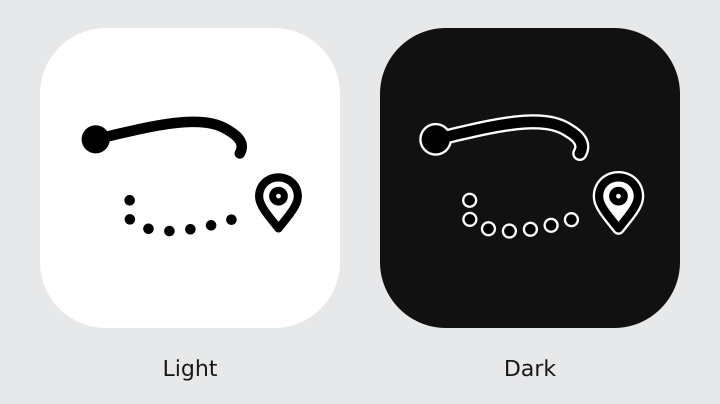
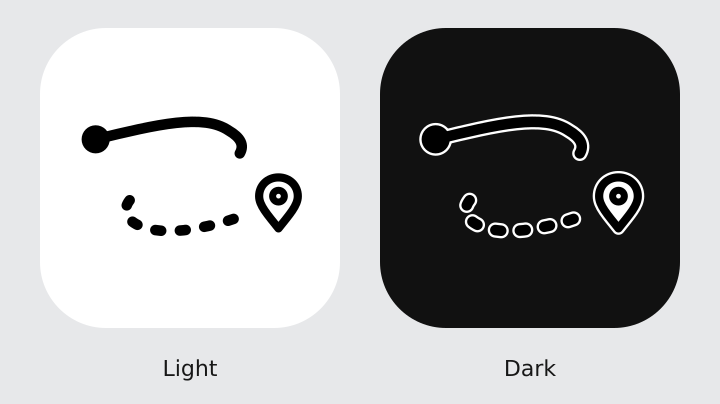
Elongate journey dots into short rounded dashes

Changed region(s): [[0.6417, 0.505, 0.825, 0.5941], [0.1528, 0.505, 0.3361, 0.5941]]

diff --git a/index.html b/index.html
@@ -10,7 +10,7 @@
     <meta name="description" content="こんどの楽しみを、一緒に。旅の予定・予約・準備を共有できるアプリ。" />
     <link rel="manifest" href="/manifest.webmanifest" />
     <link rel="icon" href="/icons/kondo-icon.svg" type="image/svg+xml" />
-    <link rel="apple-touch-icon" href="/icons/kondo-apple-touch-icon-v11.png" />
+    <link rel="apple-touch-icon" href="/icons/kondo-apple-touch-icon-v12.png" />
     <title>kondo — こんどの楽しみを、一緒に。</title>
     <script>try{var t=localStorage.getItem('tabi.theme');document.documentElement.dataset.theme=(t==='dark'||(t!=='light'&&matchMedia('(prefers-color-scheme:dark)').matches))?'dark':'light'}catch{}</script>
   </head>
